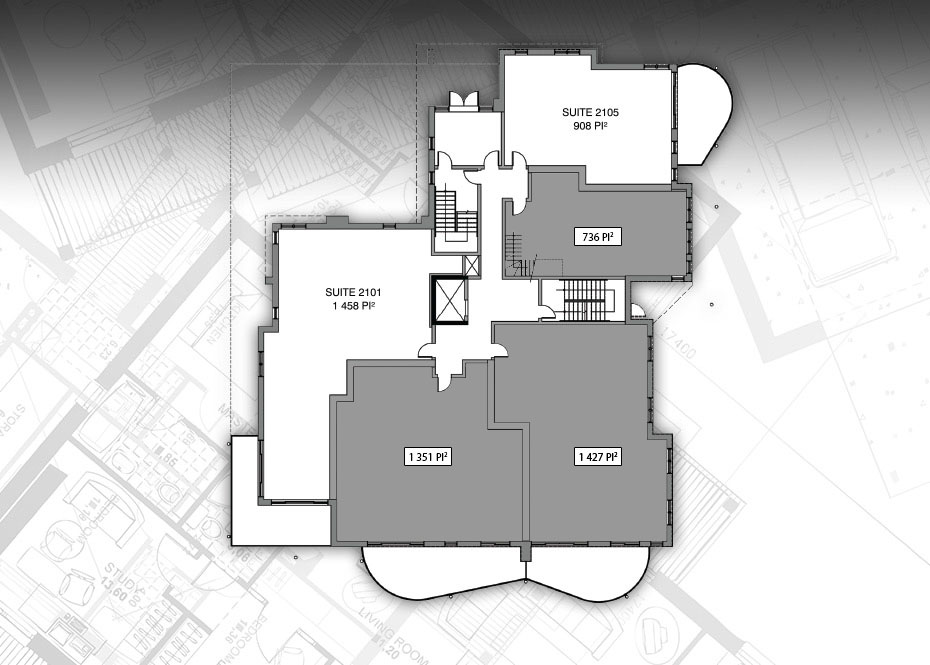
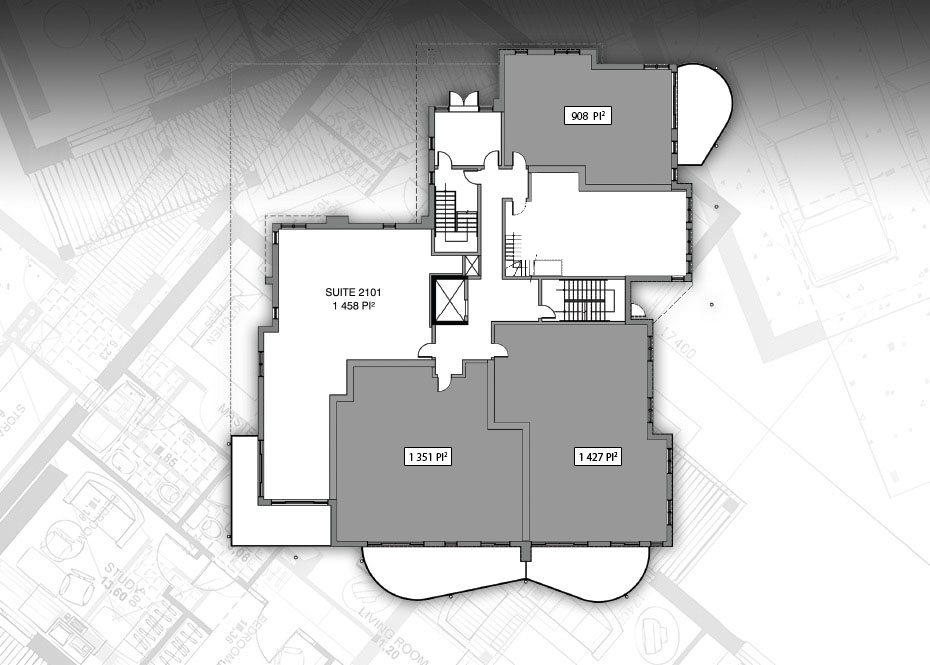
Fixes issue with the floors marked as vendu.

Changed region(s): [[0.5301, 0.0602, 0.7484, 0.4211]]

diff --git a/pages/phase2-etage-1.php b/pages/phase2-etage-1.php
@@ -11,8 +11,7 @@
             <div id="plan-bottom">
 			    <img src="../assets/images/plan/phase-2/etage-1.jpg" alt="Etage 1" width="930" height="665" usemap="#etages" class="mapster" border="0" border="0" style="width: 100%; height: auto; width: auto" />
                 <map name="etages" id="etages">
-                  <area id="VENDU" shape="poly" coords="503,54,503,168,583,169,584,188,674,187,674,165,702,165,732,112,732,95,727,83,717,73,704,68,697,65,686,65,677,70,594,68,594,52,503,54" href="2105" />
-                  <area id="VENDU" shape="poly" coords="689,190,581,190,581,171,530,170,530,200,504,199,504,277,689,277,689,189" href="2104" />
+                  <area id="VENDU" shape="poly" coords="503,54,503,168,583,169,584,188,674,187,674,165,702,165,732,112,732,95,727,83,717,73,704,68,697,65,686,65,677,70,594,68,594,52,503,54" href="2104" />
                   <area shape="poly" coords="431,223,276,226,276,328,262,329,262,435,232,436,232,545,333,545,332,399,350,401,351,365,436,363,434,277,468,277,465,255,434,254,431,223" href="2101" />
                   <area id="VENDU" shape="poly" coords="492,364,353,366,352,401,335,402,337,543,523,544,523,428,491,428,492,365" href="2102" />
                   <area id="VENDU" shape="poly" coords="650,324,492,323,495,425,526,427,526,543,669,543,670,439,650,435,650,324" href="2103" />
